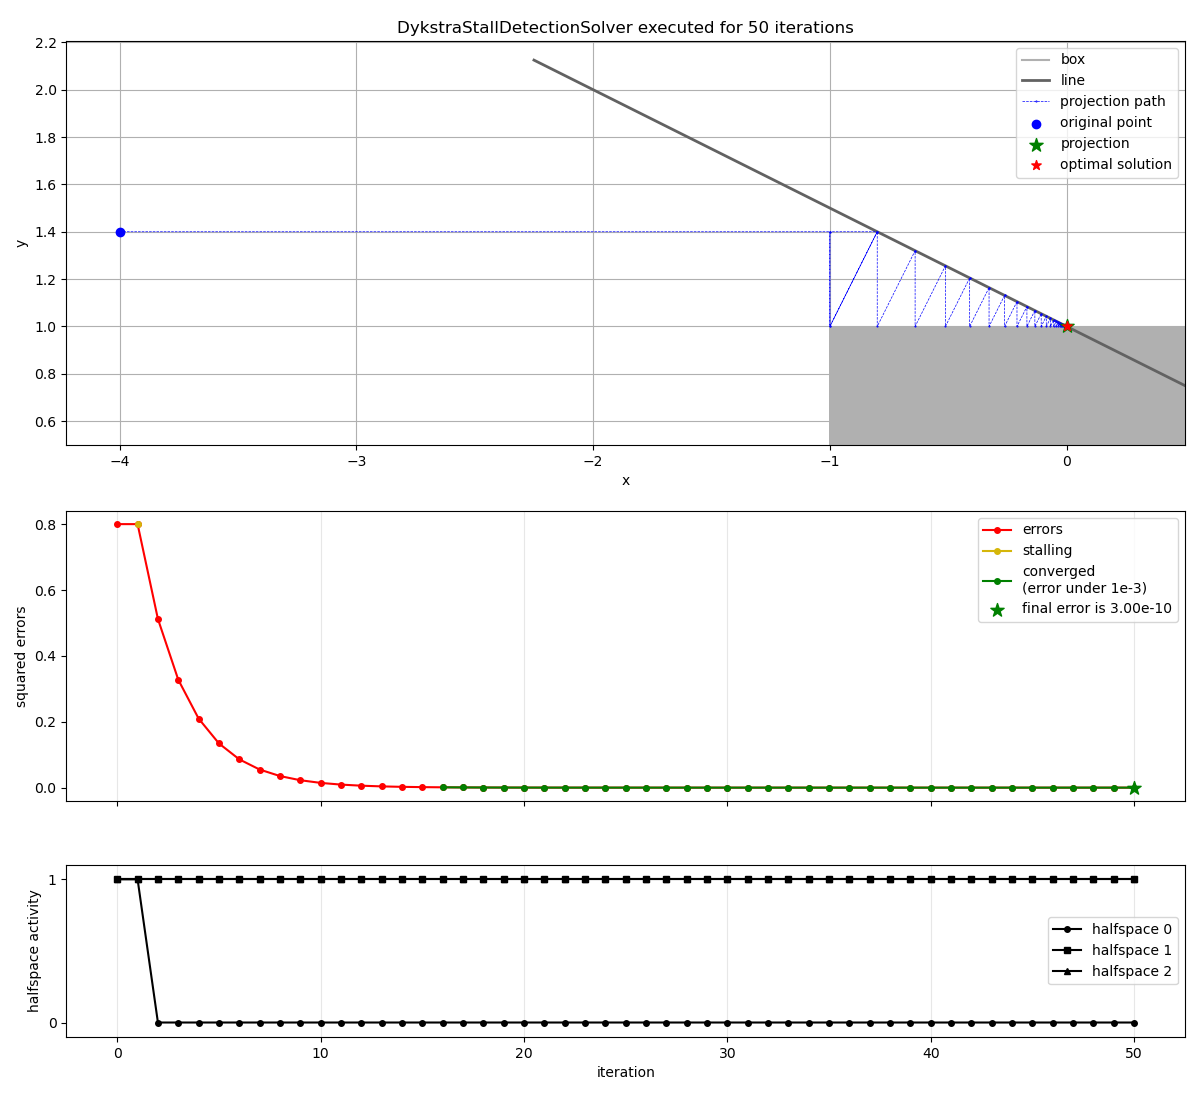
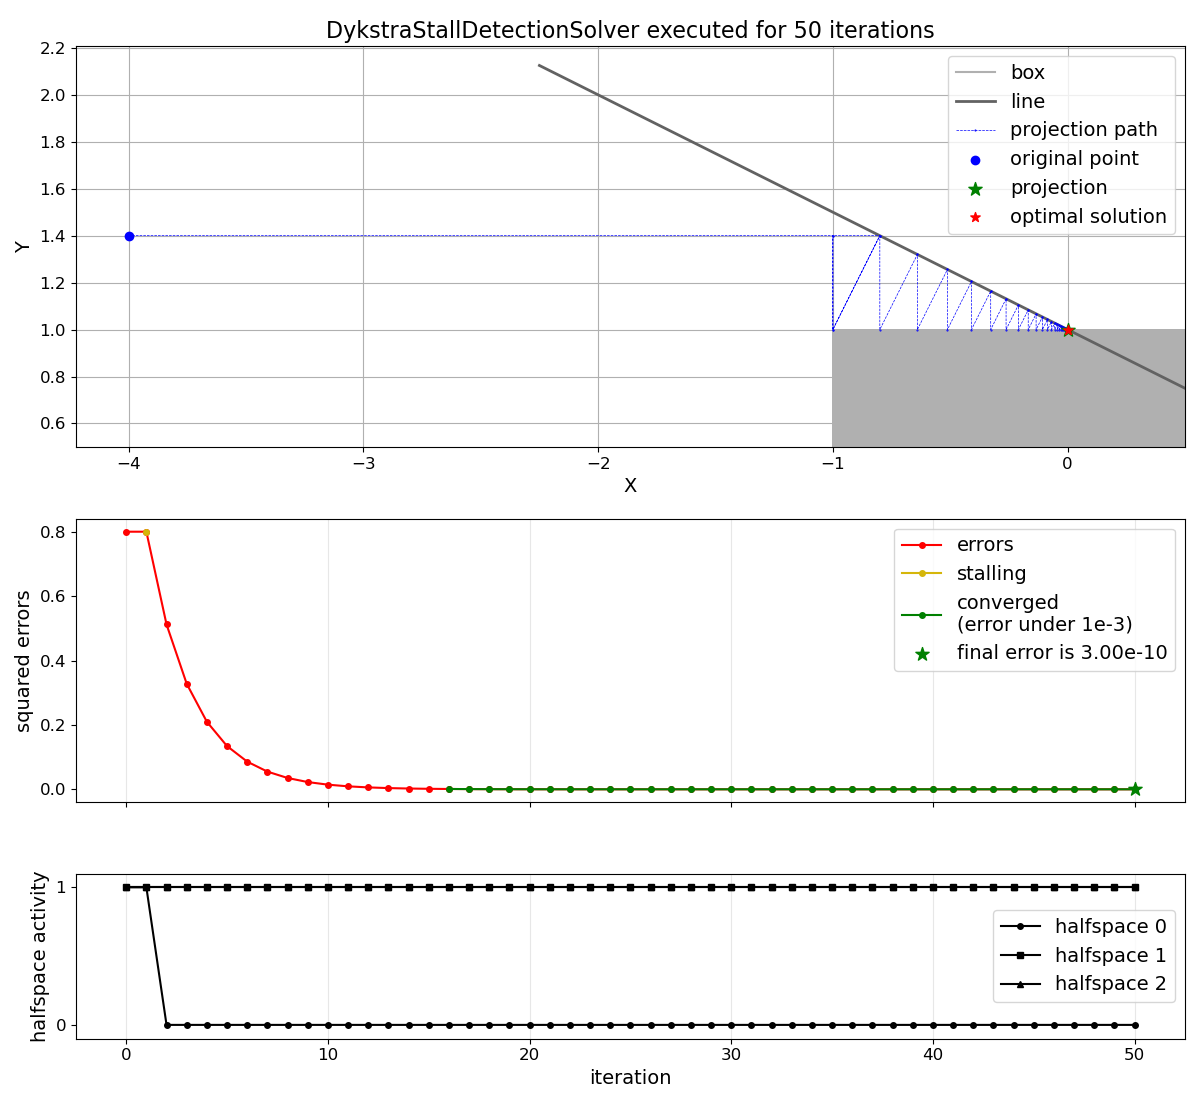
increase font sizes

diff --git a/Python/Working Version/visualiser.py b/Python/Working Version/visualiser.py
@@ -51,6 +51,10 @@ class Visualiser:
         self.fig: Figure | None = None
         self.ax_main: Axes | None = None
         self.ax_error: Axes | None = None
+        self.fontsize_title = 16
+        self.fontsize_label = 14
+        self.fontsize_tick = 12
+        self.fontsize_legend = 14
 
     def plot_2d_space(self, N: np.ndarray, c: np.ndarray, X: np.ndarray, Y: np.ndarray,
                       label: str, cmap: str, ax: Axes) -> None:
@@ -127,11 +131,12 @@ class Visualiser:
                                    "Please provide N and c for 1D or 2D cases.")
 
             ax.set_aspect('equal')
-            ax.set_xlabel('x')
-            ax.set_ylabel('y')
-            ax.set_title(f"{self.solver_name} executed for {self.max_iter - 1} iterations")
+            ax.set_xlabel('X', fontsize=self.fontsize_label)
+            ax.set_ylabel('Y', fontsize=self.fontsize_label)
+            ax.set_title(f"{self.solver_name} executed for {self.max_iter - 1} iterations", fontsize=self.fontsize_title)
+            ax.tick_params(axis='both', which='major', labelsize=self.fontsize_tick)
             ax.grid(True)
-            ax.legend()
+            ax.legend(fontsize=self.fontsize_legend)
 
         except TypeError as e:
             print(f"TypeError occurred: {e}. "
@@ -213,12 +218,13 @@ class Visualiser:
                    color='green', marker='*', s=100, zorder=5,
                    label=f'final error is {format(squared_errors[-1], ".2e")}')
 
-        ax.set_xlabel('iteration')
-        ax.set_ylabel('squared errors')
-        ax.set_title('convergence of squared errors')
+        ax.set_xlabel('iteration', fontsize=self.fontsize_label)
+        ax.set_ylabel('squared errors', fontsize=self.fontsize_label)
+        ax.set_title('convergence of squared errors', fontsize=self.fontsize_title)
+        ax.tick_params(axis='both', which='major', labelsize=self.fontsize_tick)
         ax.grid(True, axis='x', alpha=0.3)
         ax.locator_params(axis='y', nbins=5)
-        ax.legend()
+        ax.legend(fontsize=self.fontsize_legend)
 
     def plot_active_halfspaces(self, fig: Figure, gs: gridspec.GridSpec) -> None:
         """
@@ -253,19 +259,20 @@ class Visualiser:
             
             ax.set_ylim(-0.1, 1.1)
             ax.set_yticks([0, 1])
-            ax.set_yticklabels(['inactive', 'active'])
+            ax.set_yticklabels(['inactive', 'active'], fontsize=self.fontsize_tick)
+            ax.tick_params(axis='x', which='major', labelsize=self.fontsize_tick)
             
             # Only show x-axis labels on the bottom plot
             if i < num_of_spaces - 1:
                 ax.set_xticklabels([])
             else:
-                ax.set_xlabel('iteration')
+                ax.set_xlabel('iteration', fontsize=self.fontsize_label)
 
             if i == 0:
-                ax.set_title('halfspace activity')
+                ax.set_title('halfspace activity', fontsize=self.fontsize_title)
 
             ax.grid(True, axis='x', alpha=0.3)
-            ax.legend(loc='center right')
+            ax.legend(loc='center right', fontsize=self.fontsize_legend)
 
     def visualise(self, plot_original_point: np.ndarray | None = None,
                   plot_optimal_point: np.ndarray | None = None) -> None:
@@ -301,7 +308,7 @@ class Visualiser:
             self.ax_main.scatter(plot_optimal_point[0], plot_optimal_point[1],
                                color='green', marker='*', s=40, label='optimal solution', zorder=5)
 
-        self.ax_main.legend()
+        self.ax_main.legend(fontsize=self.fontsize_legend)
 
         if self.result.squared_errors is not None:
             self.plot_errors(self.ax_error)
@@ -366,7 +373,7 @@ class VerticalVisualiser(Visualiser):
             self.ax_main.scatter(plot_optimal_point[0], plot_optimal_point[1],
                                color='red', marker='*', s=50, label='optimal solution', zorder=5)
 
-        self.ax_main.legend()
+        self.ax_main.legend(fontsize=self.fontsize_legend)
 
         if self.result.squared_errors is not None:
             self.plot_errors(self.ax_error)
@@ -388,11 +395,12 @@ class VerticalVisualiser(Visualiser):
             
             self.ax_activity.set_ylim(-0.1, 1.1)
             self.ax_activity.set_yticks([0, 1])
-            self.ax_activity.set_yticklabels(['0', '1'])
-            self.ax_activity.set_xlabel('iteration')
-            self.ax_activity.set_ylabel('halfspace activity')
+            self.ax_activity.set_yticklabels(['0', '1'], fontsize=self.fontsize_tick)
+            self.ax_activity.tick_params(axis='x', which='major', labelsize=self.fontsize_tick)
+            self.ax_activity.set_xlabel('iteration', fontsize=self.fontsize_label)
+            self.ax_activity.set_ylabel('halfspace activity', fontsize=self.fontsize_label)
             self.ax_activity.grid(True, axis='x', alpha=0.3)
-            self.ax_activity.legend(loc='center right')
+            self.ax_activity.legend(loc='center right', fontsize=self.fontsize_legend)
 
         plt.subplots_adjust(hspace=0.4)
         plt.tight_layout()

diff --git a/Python/Working Version/main.py b/Python/Working Version/main.py
@@ -9,7 +9,7 @@ from convex_projection_solver import (DykstraProjectionSolver,
 from visualiser import Visualiser, VerticalVisualiser
 
 
-def run_with_tracking() -> None:
+def run() -> None:
     """Tests Dykstra's algorithm on the intersection of a box at the origin
     and a line passing through (2, 0) and (0, 1)"""
     # --- Define Problem ---
@@ -102,14 +102,14 @@ def run_with_tracking() -> None:
 
     # --- Solver Selection ---
     
-    # # * Standard Dykstra's Algorithm
-    # solver = DykstraProjectionSolver(
-    #     z, A, c, max_iter,
-    #     track_error=True,
-    #     plot_errors=plot_quivers,
-    #     plot_active_halfspaces=plot_activity,
-    #     delete_spaces=delete_half_spaces
-    # )
+    # * Standard Dykstra's Algorithm
+    solver = DykstraProjectionSolver(
+        z, A, c, max_iter,
+        track_error=True,
+        plot_errors=plot_quivers,
+        plot_active_halfspaces=plot_activity,
+        delete_spaces=delete_half_spaces
+    )
     
     # # * Hybrid MAP-Dykstra Algorithm
     # solver = DykstraMapHybridSolver(
@@ -120,14 +120,14 @@ def run_with_tracking() -> None:
     #     delete_spaces=delete_half_spaces
     # )
 
-    # * Dykstra with Stalling Detection
-    solver = DykstraStallDetectionSolver(
-        z, A, c, max_iter,
-        track_error=True,
-        plot_errors=plot_quivers,
-        plot_active_halfspaces=plot_activity,
-        delete_spaces=delete_half_spaces
-    )
+    # # * Dykstra with Stalling Detection
+    # solver = DykstraStallDetectionSolver(
+    #     z, A, c, max_iter,
+    #     track_error=True,
+    #     plot_errors=plot_quivers,
+    #     plot_active_halfspaces=plot_activity,
+    #     delete_spaces=delete_half_spaces
+    # )
     
 
     solver_name = solver.__class__.__name__
@@ -159,4 +159,4 @@ def run_with_tracking() -> None:
 
 
 if __name__ == "__main__":
-    run_with_tracking()
+    run()
